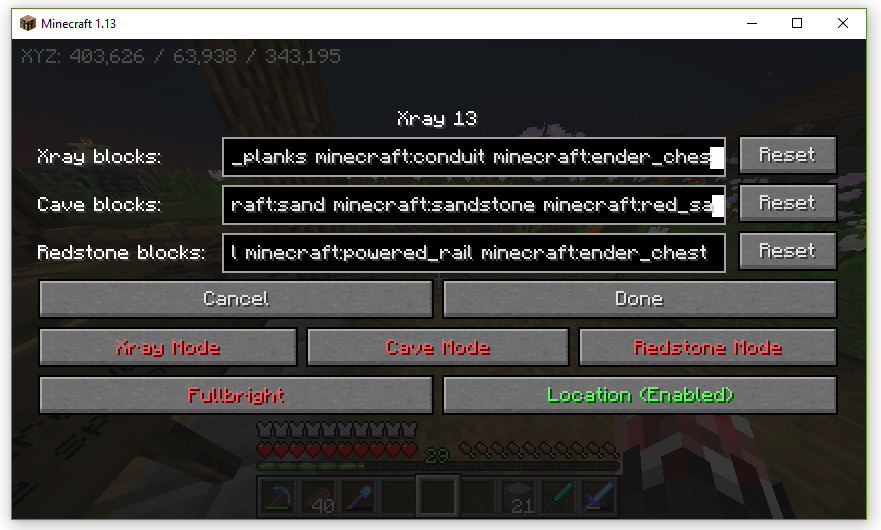
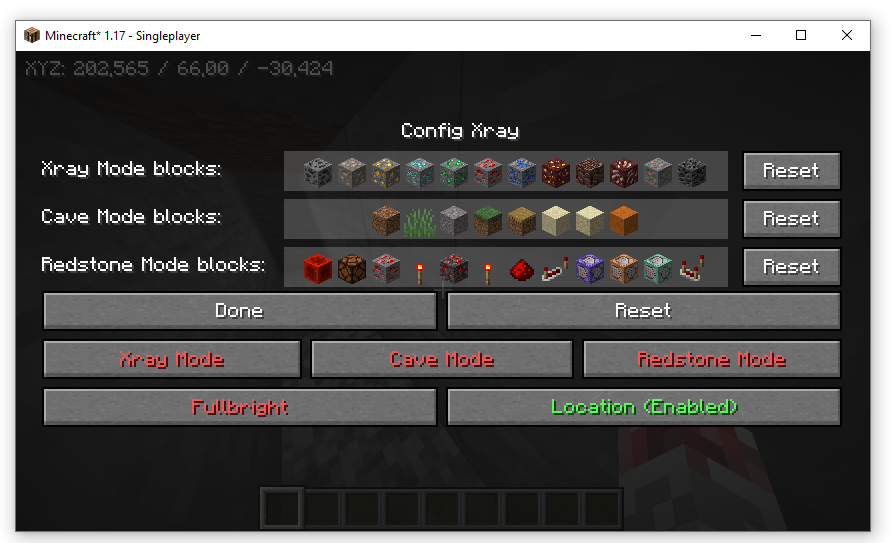
update doc to new menu

diff --git a/README.md b/README.md
@@ -24,6 +24,13 @@ Bored by finding your diamonds legitimately? This mod is for you!
     location on the HUD and add/remove to /reset Blocks lists of cave, redstone and Xray mode<br/>
     <img src="docs/assets/screens/5.png" width="300px">
 
+    You can change the blocks one by one
+    <img src="docs/assets/screens/8.png" width="300px">
+    
+    From the list of blocks
+    <img src="docs/assets/screens/9.png" width="300px">
+
+
 ### Custom modes
 You can create you own mode in Xray by adding in the `xray.json` in `customModes` names of new `<modeName>:<type>`
 
